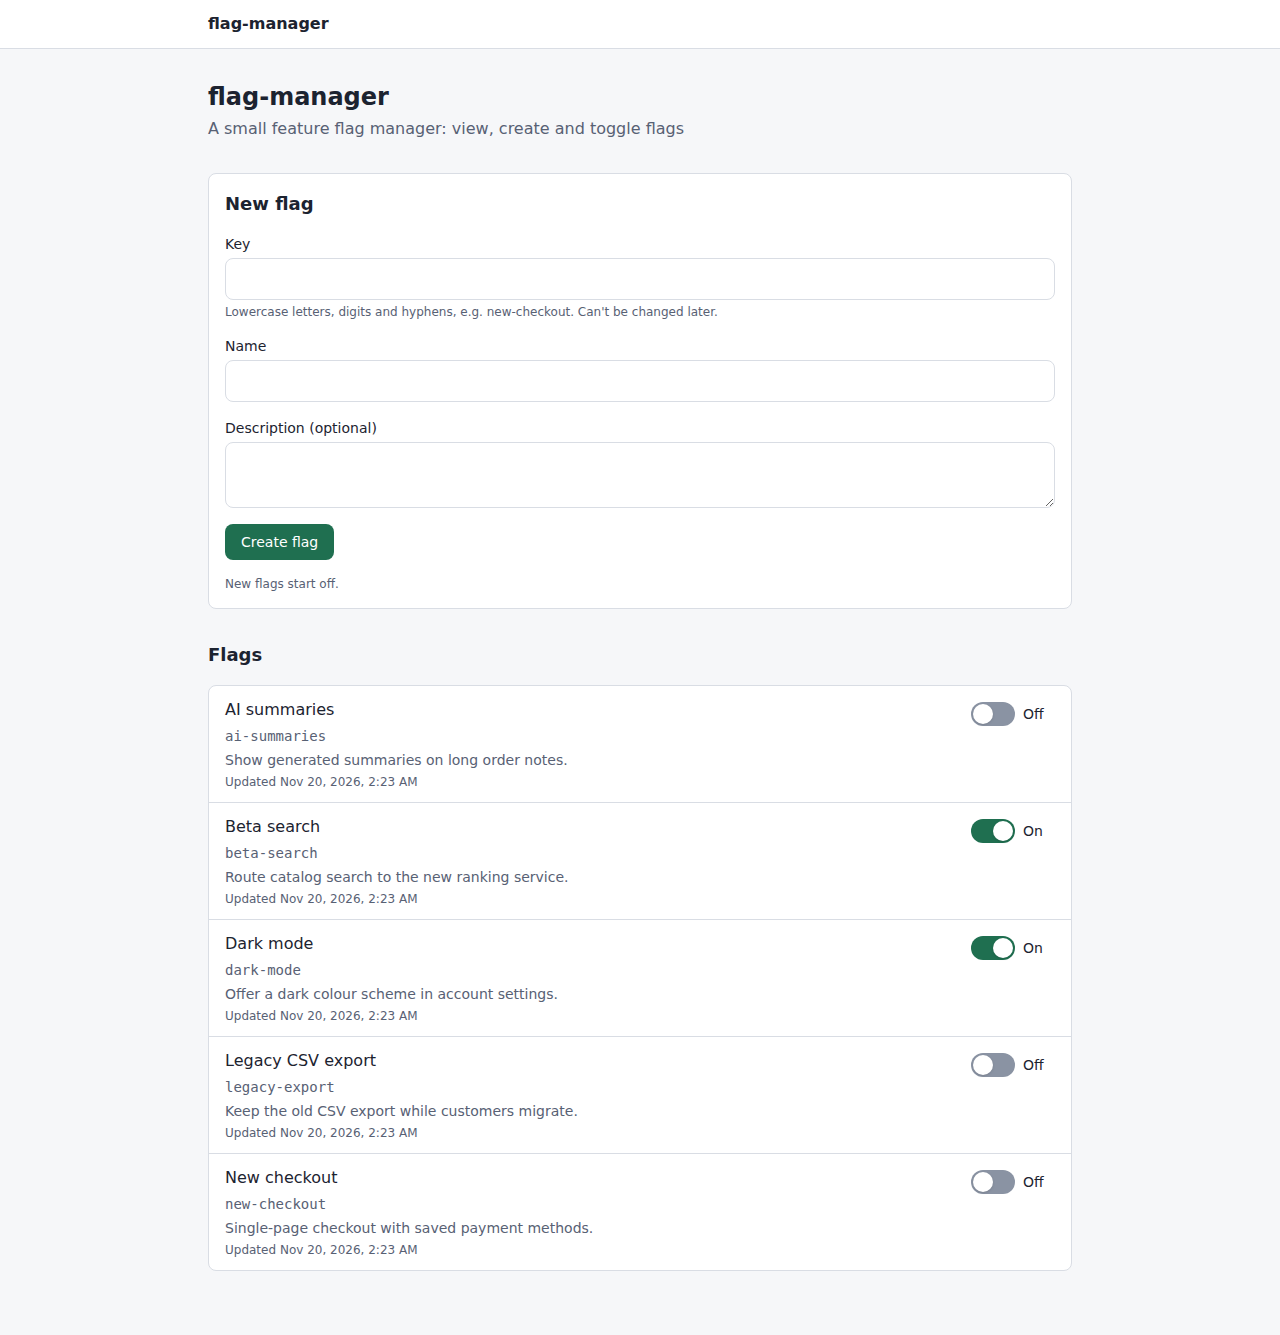
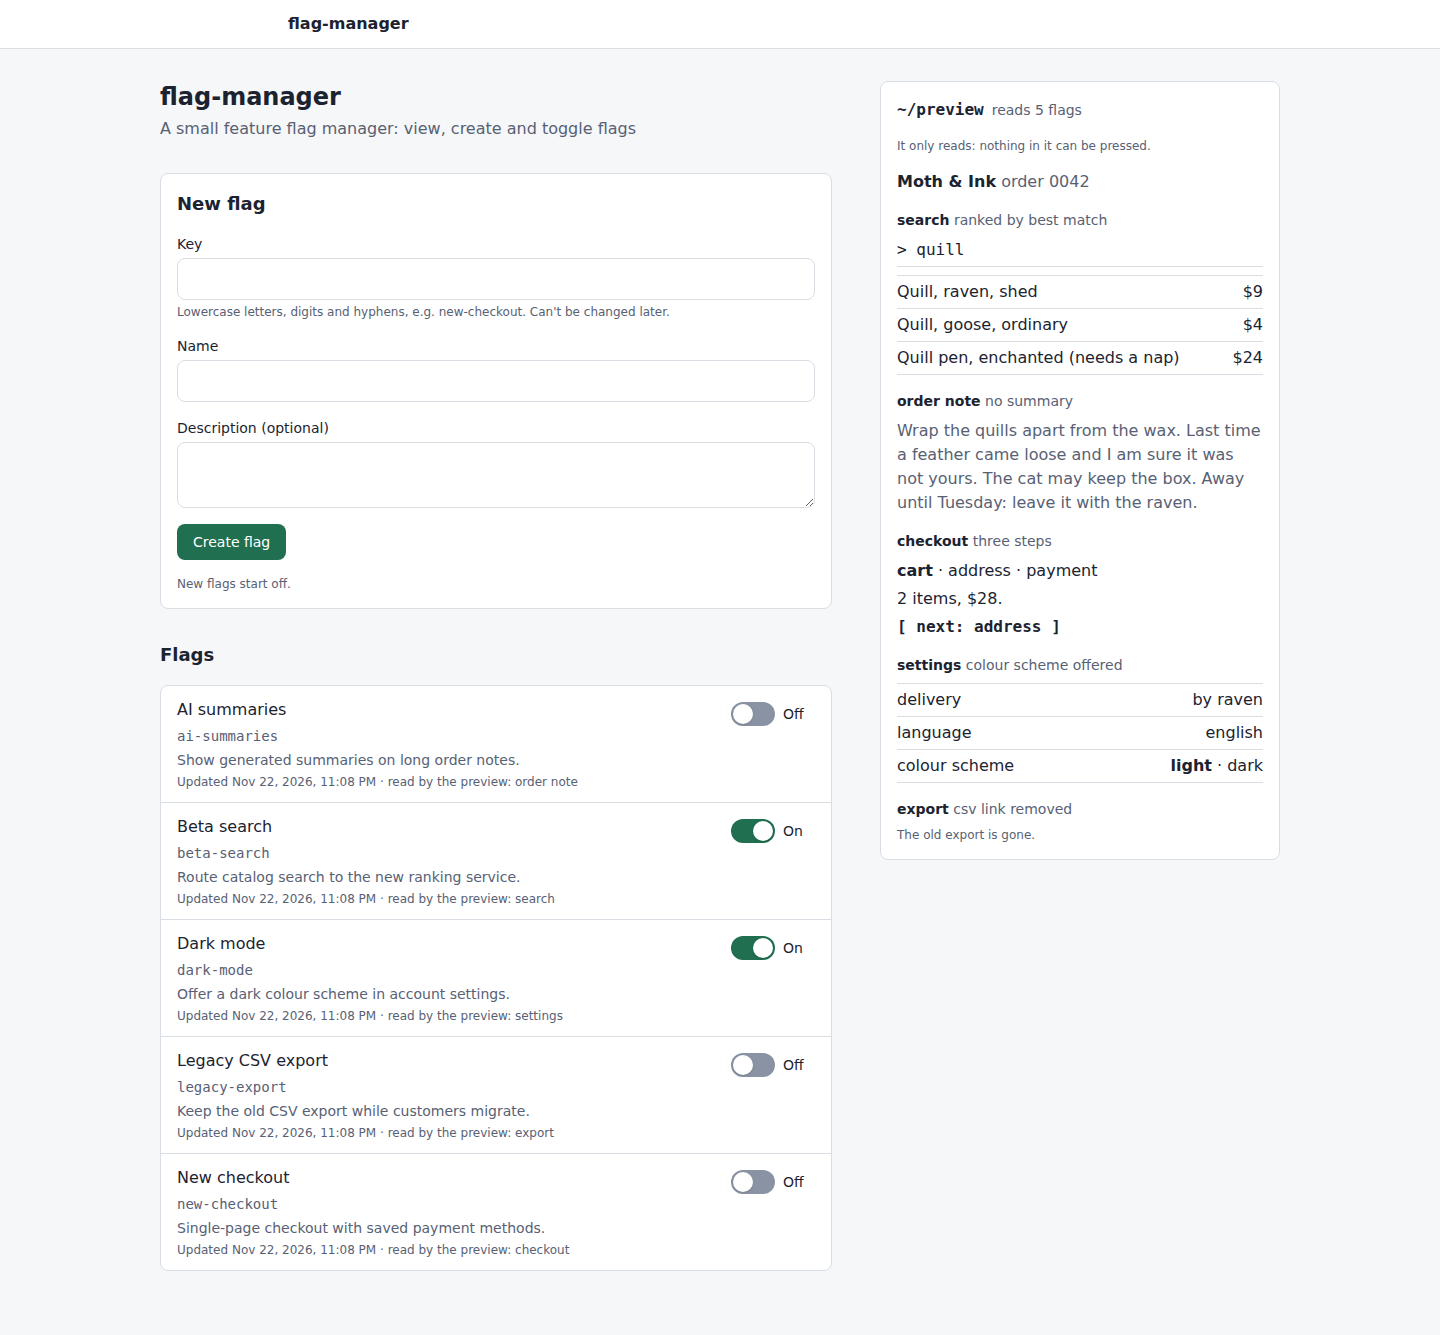
docs: refresh the README screenshot with the shop preview
The old screenshot predated the evaluation route and the shop preview,
so the README's first picture no longer showed what the app looks like.
It's retaken at 1440 px wide from freshly seeded data, so the preview
sits beside the list, and the alt text now describes it.

diff --git a/README.md b/README.md
@@ -4,7 +4,7 @@ A small tool for managing feature flags: the on/off switches a team uses to rele
 
 On one page you can see every flag, turn it on or off, and create new ones. I built it as a first version that a team could keep extending.
 
-![The flag manager page: the "New flag" form above the list of flags, each with an On/Off switch](docs/screenshot.png)
+![The flag manager page: the "New flag" form above the list of flags, each with an On/Off switch, and beside them a pretend shop that reads the same flags](docs/screenshot.png)
 
 ## How to run
 
